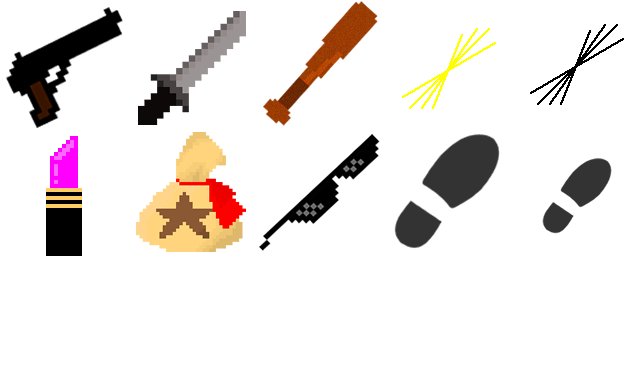
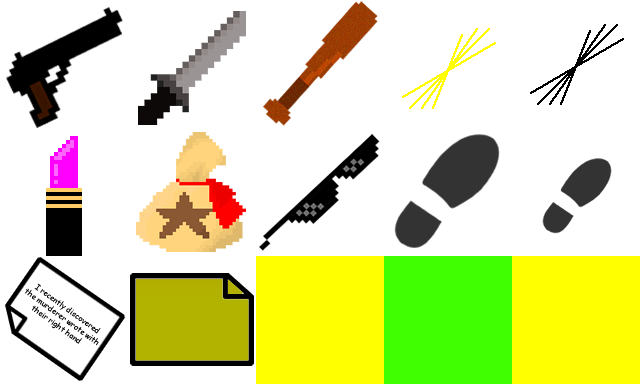
Added Clue asset location to Clue

Changed region(s): [[0.0, 0.6562, 1.0, 1.0], [0.125, 0.75, 0.1562, 0.7812]]

diff --git a/game/src/test/java/org/teamfarce/mirch/ScenarioBuilder_Test.java b/game/src/test/java/org/teamfarce/mirch/ScenarioBuilder_Test.java
@@ -23,10 +23,10 @@ public class ScenarioBuilder_Test extends GameTest
     {
         List<Clue> clues = new ArrayList<>();
 
-        clues.add(new Clue("1", "1", "clueSheet.png"));
-        clues.add(new Clue("2", "2", "clueSheet.png"));
-        clues.add(new Clue("3", "3", "clueSheet.png"));
-        clues.add(new Clue("4", "4", "clueSheet.png"));
+        clues.add(new Clue("1", "1", "clueSheet.png", 0, 0));
+        clues.add(new Clue("2", "2", "clueSheet.png", 0, 0));
+        clues.add(new Clue("3", "3", "clueSheet.png", 0, 0));
+        clues.add(new Clue("4", "4", "clueSheet.png", 0, 0));
 
         List<Room> rooms = new ArrayList<>();
         rooms.add(new Room(0, "testMap.tmx", "Test Room1"));
@@ -50,10 +50,10 @@ public class ScenarioBuilder_Test extends GameTest
     {
 
         List<Clue> clues = new ArrayList<>();
-        clues.add(new Clue("1", "1", "clueSheet.png"));
-        clues.add(new Clue("2", "2", "clueSheet.png"));
-        clues.add(new Clue("3", "3", "clueSheet.png"));
-        clues.add(new Clue("4", "4", "clueSheet.png"));
+        clues.add(new Clue("1", "1", "clueSheet.png", 0, 0));
+        clues.add(new Clue("2", "2", "clueSheet.png", 0, 0));
+        clues.add(new Clue("3", "3", "clueSheet.png", 0, 0));
+        clues.add(new Clue("4", "4", "clueSheet.png", 0, 0));
 
         List<Room> rooms = new ArrayList<>();
         rooms.add(new Room(0, "testMap.tmx", "Test Room1"));
@@ -79,9 +79,9 @@ public class ScenarioBuilder_Test extends GameTest
 
         List<Clue> clues = ScenarioBuilder.generateMotive(dataMotive);
 
-        assertEquals(clues.get(0), new Clue("Motive Part 1", "Lorem ipsum dolor sit amet, consectetur adipiscing elit. Aenean sagittis tincidunt augue", "clueSheet.png"));
-        assertEquals(clues.get(1), new Clue("Motive Part 2", ", eu dignissim massa maximus at. Praesent egestas, arcu vitae dignissim pharetra, sem le", "clueSheet.png"));
-        assertEquals(clues.get(2), new Clue("Motive Part 3", "ctus luctus metus, ac suscipit nibh massa non lacus. In tortor sem, blandit non odio sed", "clueSheet.png"));
+        assertEquals(clues.get(0), new Clue("Motive Part 1", "Lorem ipsum dolor sit amet, consectetur adipiscing elit. Aenean sagittis tincidunt augue", "clueSheet.png", 0, 0));
+        assertEquals(clues.get(1), new Clue("Motive Part 2", ", eu dignissim massa maximus at. Praesent egestas, arcu vitae dignissim pharetra, sem le", "clueSheet.png", 0, 0));
+        assertEquals(clues.get(2), new Clue("Motive Part 3", "ctus luctus metus, ac suscipit nibh massa non lacus. In tortor sem, blandit non odio sed", "clueSheet.png", 0, 0));
 
 
     }

diff --git a/game/src/main/java/org/teamfarce/mirch/ScenarioBuilder.java b/game/src/main/java/org/teamfarce/mirch/ScenarioBuilder.java
@@ -77,11 +77,11 @@ public class ScenarioBuilder
         System.out.println(parts[2]);
 
         //TODO: update to the correct sprite if we are using them
-        Clue part1 = new Clue("Motive Part 1", parts[0], "clueSheet.png");
+        Clue part1 = new Clue("Motive Part 1", parts[0], "clueSheet.png", 1, 2);
         part1.setMotiveClue();
-        Clue part2 = new Clue("Motive Part 2", parts[1], "clueSheet.png");
+        Clue part2 = new Clue("Motive Part 2", parts[1], "clueSheet.png",1 , 2);
         part2.setMotiveClue();
-        Clue part3 = new Clue("Motive Part 3", parts[2], "clueSheet.png");
+        Clue part3 = new Clue("Motive Part 3", parts[2], "clueSheet.png", 1, 2);
         part3.setMotiveClue();
 
         List<Clue> out = Arrays.asList(part1, part2, part3);
@@ -101,7 +101,7 @@ public class ScenarioBuilder
         }
         List<Clue> output = new ArrayList<>();
         for (DataClue c: clues) {
-            output.add(new Clue(c.name, c.description, c.sprite));
+            output.add(new Clue(c.name, c.description, c.sprite, c.assetX, c.assetY));
         }
 
         return output;
@@ -131,7 +131,7 @@ public class ScenarioBuilder
 
         Object[] means = database.means.values().toArray();
         DataClue randomMean = (DataClue) means[random.nextInt(means.length)];
-        constructedClues.add(new Clue(randomMean.name, randomMean.description, randomMean.sprite));
+        constructedClues.add(new Clue(randomMean.name, randomMean.description, randomMean.sprite, randomMean.assetX, randomMean.assetY));
 
         distributeClues(constructedClues, rooms);
         return new GameSnapshot(characterData.allCharacters, constructedClues, rooms, 0, 0);

diff --git a/game/src/main/java/org/teamfarce/mirch/Entities/Clue.java b/game/src/main/java/org/teamfarce/mirch/Entities/Clue.java
@@ -1,9 +1,8 @@
 package org.teamfarce.mirch.Entities;
 
-
-import com.badlogic.gdx.Gdx;
-import com.badlogic.gdx.graphics.Texture;
+import com.badlogic.gdx.graphics.g2d.TextureRegion;
 import org.teamfarce.mirch.Assets;
+import org.teamfarce.mirch.Settings;
 
 /**
  * This class defines the clues that the player needs to find in order to solve the murder.
@@ -13,6 +12,9 @@ public class Clue extends MapEntity
 
     private boolean motiveClue = false;
 
+    private int resourceX = 0;
+    private int resourceY = 0;
+
     /**
      * Creates a clue
      *
@@ -20,10 +22,12 @@ public class Clue extends MapEntity
      * @param description describes what the clue is
      * @param filename    the texture region of the clue
      */
-    public Clue(String name, String description, String filename)
+    public Clue(String name, String description, String filename, int resourceX, int resourceY)
     {
-        super(name, description, Assets.loadTexture("clues/" + filename));
-
+        super(name, description, new TextureRegion(Assets.loadTexture("clues/" + filename), resourceX * 128, resourceY * 128, 128, 128));
+        this.resourceX = resourceX;
+        this.resourceY = resourceY;
+        setSize(Settings.TILE_SIZE, Settings.TILE_SIZE);
     }
 
     /**

diff --git a/game/src/test/java/org/teamfarce/mirch/Journal_Test.java b/game/src/test/java/org/teamfarce/mirch/Journal_Test.java
@@ -21,7 +21,7 @@ public class Journal_Test extends GameTest
     public void test_addClue()
     {
         Journal journal = new Journal();
-		    Clue clue = new Clue("Clue name", "Description","clueSheet.png");
+		    Clue clue = new Clue("Clue name", "Description","clueSheet.png", 0, 0);
         journal.addClue(clue);
 
         assertEquals(clue, journal.foundClues.get(0));
@@ -34,8 +34,8 @@ public class Journal_Test extends GameTest
         Journal journal = new Journal();
         ArrayList<Clue> cluesList = new ArrayList<>();
 
-		    Clue clue = new Clue("Clue name", "Description","clueSheet.png");
-		    Clue clue2 = new Clue("Clue name 2", "Description","clueSheet.png");
+		    Clue clue = new Clue("Clue name", "Description","clueSheet.png", 0, 0);
+		    Clue clue2 = new Clue("Clue name 2", "Description","clueSheet.png", 0, 0);
 
         journal.addClue(clue);
         journal.addClue(clue2);

diff --git a/game/src/main/java/org/teamfarce/mirch/ScenarioBuilderDatabase.java b/game/src/main/java/org/teamfarce/mirch/ScenarioBuilderDatabase.java
@@ -46,7 +46,7 @@ public class ScenarioBuilderDatabase
             singleMeans.id = rsMeans.getInt("id");
             singleMeans.name = rsMeans.getString("name");
             singleMeans.description = rsMeans.getString("description");
-            singleMeans.sprite = "clock.png";
+            singleMeans.sprite = "clueSheet.png";
             means.put(singleMeans.id, singleMeans);
         }
 
@@ -57,7 +57,7 @@ public class ScenarioBuilderDatabase
             clue.id = rsClue.getInt("id");
             clue.name = rsClue.getString("name");
             clue.description = rsClue.getString("description");
-            clue.sprite = "/clues/clueSheet.png";
+            clue.sprite = "clueSheet.png";
             clue.assetX = rsClue.getInt("resourceX");
             clue.assetY = rsClue.getInt("resourceY");
             clues.put(clue.id, clue);

diff --git a/game/src/main/java/org/teamfarce/mirch/Entities/Player.java b/game/src/main/java/org/teamfarce/mirch/Entities/Player.java
@@ -74,6 +74,9 @@ public class Player extends AbstractPerson
             if (c.getTileCoordinates().equals(tileLocation))
             {
                 //Do same as in NPC branch
+
+                //Found clue
+                //Do clue animation screen
             }
         }
 
